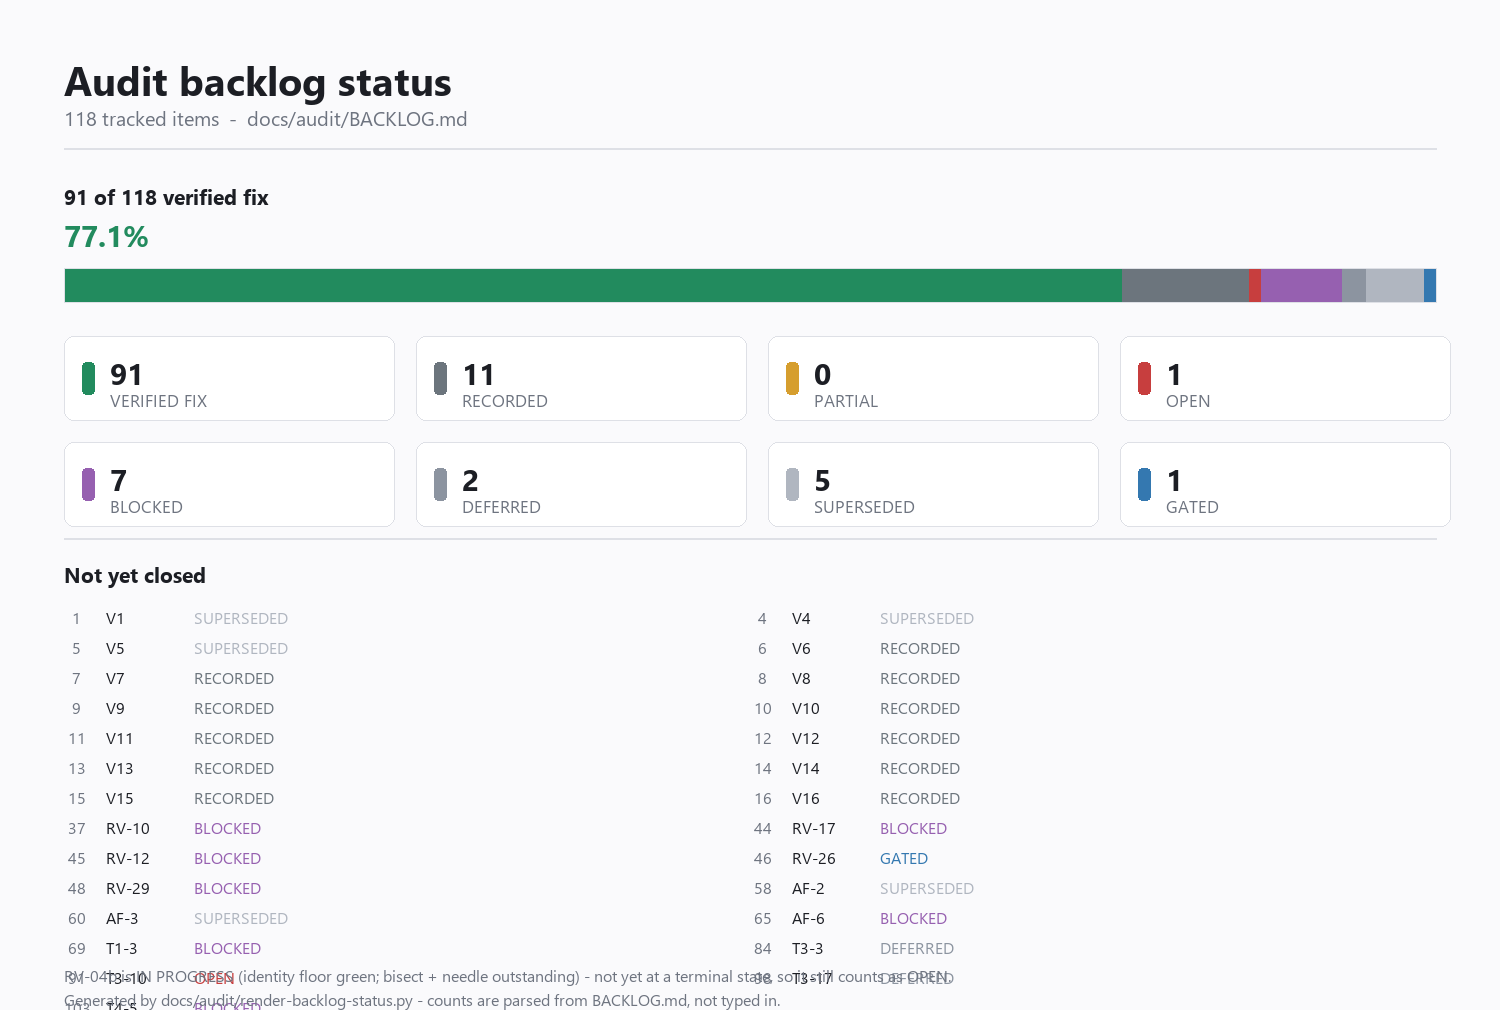
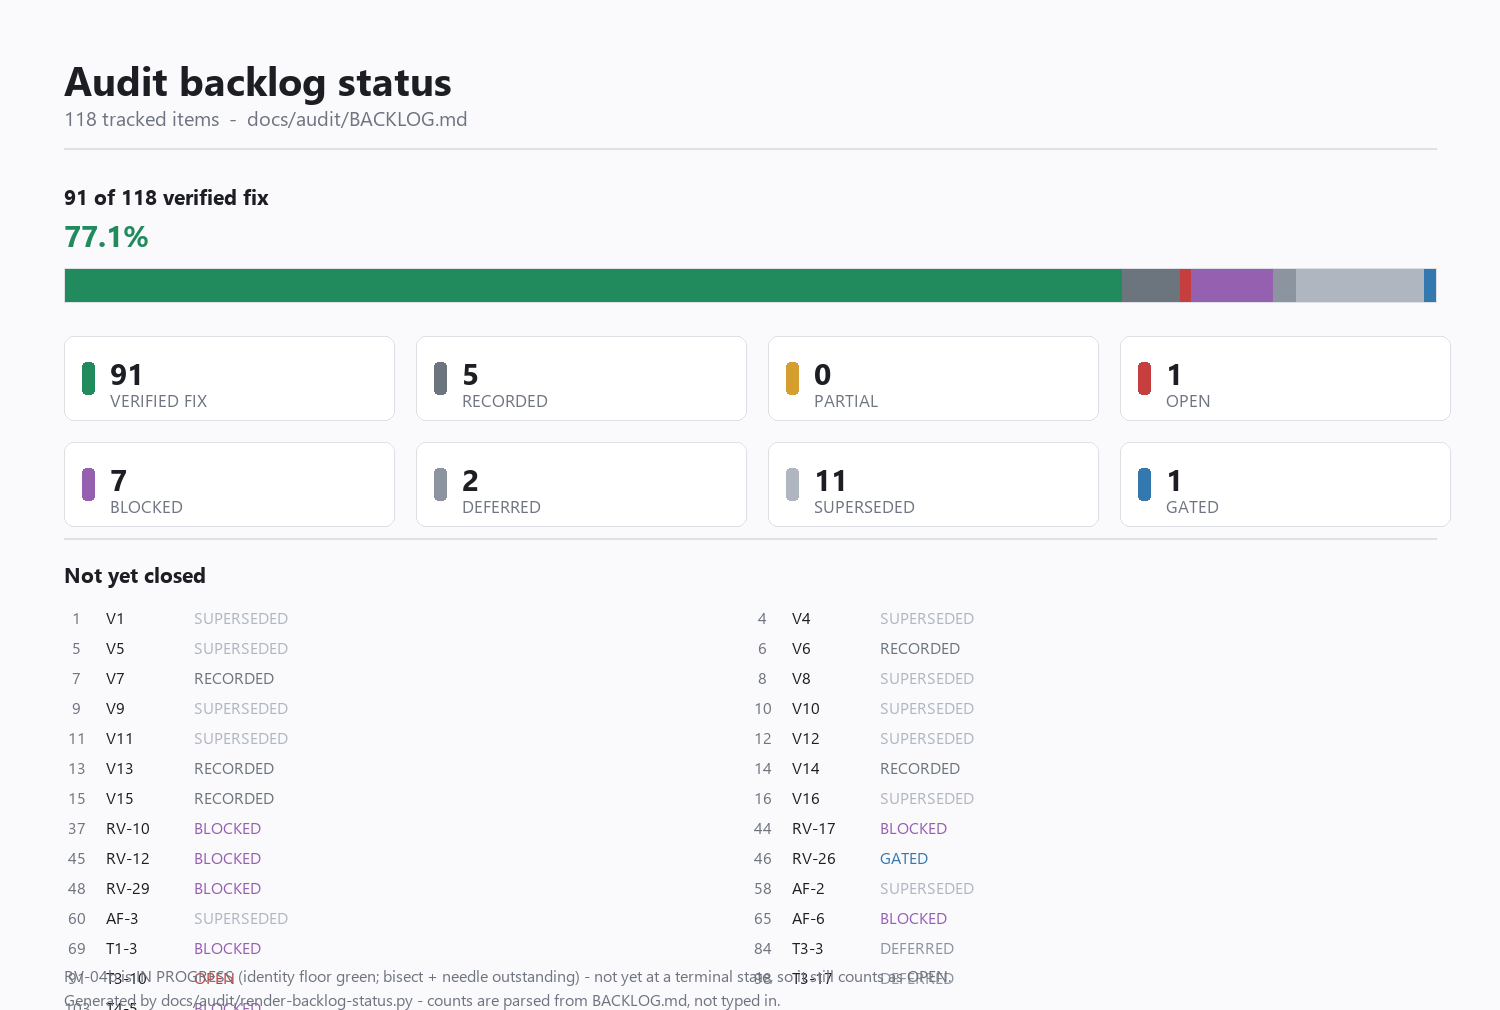
Batch-close six RECORDED rows - six different answers, none of them 'unfixed'
Rows 8, 9, 10, 11, 12, 16 were the RECORDED rows with no obvious later owner. Batch-verified to
find out the real remaining workload rather than assume it. No code change.

  V8   does config/system_admin.php exist?  NO, and never did. config/admin.php is wallet-routing
       only - three phone numbers; its own header records credentials moved to the employees table
       via SpecialAccountSeeder. A grep for the filename would have 'confirmed' a leak that is not
       there; the answer came from reading what the file holds now.
  V9   user_ratings unique key?            PRESENT. NON_UNIQUE = 0 on both columns of
       user_ratings_rater_id_rated_user_id_unique. Pinned by RV30DataModelHygieneTest, whose
       assertion warns that changing it to 'one per ride' is a product decision.
  V10  POST /api/rides method mismatch     FIXED. Pointed at createRide, which does not exist, so
       the documented create endpoint returned 500 for every caller. routes/api.php labels it RV-14/V10.
  V11  GET vs POST on rides/search          BOTH registered to searchRides in the live route table.
       Nothing left to decide.
  V12  auth()->id() null under JWT          REFUTED, NOT REPAIRED - see below.
  V16  all-seats cancel vs cancelBooking   EQUIVALENT, measured. CancelSeatsEquivalenceCheck books
       real money through both paths on both payment branches and compares wallet and score.
[…]

diff --git a/docs/audit/BACKLOG.md b/docs/audit/BACKLOG.md
@@ -149,15 +149,15 @@ Cells marked `NOT re-verified` mean the gate moved but the code was not re-check
 | 5 | V5 | Validation `errors` bag stripped | P1 | **SUPERSEDED** | n/a | feeds RV-13 | R2 sec 131. Fixed by **row 27 (RV-13)**, VERIFIED FIX (R2 sec 20/20.1/20.3). The catch-all `renderable(Throwable)` matched `ValidationException`, mapped it to 422, then REBUILT the body as `{status,message,code}` - discarding `$e->errors()`. `Handler.php` now registers a dedicated `ValidationException` renderable AHEAD of the catch-all, which keeps Laravel's own shape (`message` + `errors` keyed by field) and leaves the rest of the catch-all untouched. Verified: `ValidationErrorBagTest` + `WaveZeroVerificationTest` (V5 recorder) + `CreateRideRouteTest` + `RV13DomainExceptionMaskingTest` = 25 tests / 62 assertions, green. The WaveZero V5 recorder was deliberately flipped by that fix and its comment says it must NOT be flipped back. |
 | 6 | V6 | CI driver + skipped tests | P1 | RECORDED | n/a | feeds AF-2', RV-18 | R1 sec 3, sec 9; 97cd3f1 - CI pinned to sqlite |
 | 7 | V7 | `SHOW REPLICA STATUS` under load | P2 | RECORDED | owner: no replica in this environment | feeds RV-28 | R1 sec 3, sec 9; R2 sec 31 - NOT RUN, the only unrecorded V |
-| 8 | V8 | `config/system_admin.php` exists? | P2 | RECORDED | n/a | feeds RV-19 | R1 sec 3, sec 9; 97cd3f1 - file missing, so revenue reads 0 |
-| 9 | V9 | `user_ratings` unique key | P3 | RECORDED | n/a | feeds RV-30 | R1 sec 3, sec 9; 97cd3f1 - `unique(rater_id, rated_user_id)` still present |
-| 10 | V10 | `POST /api/rides` method mismatch | P1 | RECORDED | n/a | feeds RV-08, RV-14 | R1 sec 3, sec 9; 97cd3f1 - 500 `BadMethodCallException`, `createRide` missing |
-| 11 | V11 | GET vs POST on `rides/search` | P1 | RECORDED | n/a | feeds RV-17, refines R2 sec 1.2(1) | R2 sec 4, sec 9; c1bb4c7 - GET **and** POST exist, so k6 got 422 not 404 |
-| 12 | V12 | `auth()->id()` null under JWT | P1 | RECORDED | n/a | feeds RV-36 (refutes its headline) | R2 sec 4, sec 9; c1bb4c7 - premise REFUTED |
+| 8 | V8 | `config/system_admin.php` exists? | P2 | **SUPERSEDED** | n/a | feeds RV-19 | R2 sec 132. ANSWERED, no defect. `config/system_admin.php` does not exist and never did. What exists is `config/admin.php`, which is **wallet routing only** - three phone numbers plus wallet prefixes; its own header records that credentials were removed and now live in the `employees` table via `SpecialAccountSeeder`. So the R1 question resolves better than the finding assumed: there is no admin-credentials config file to leak. Both live readers (`Console/Kernel.php:97`, `VerificationRepository.php:67`) only read wallet phones. |
+| 9 | V9 | `user_ratings` unique key | P3 | **SUPERSEDED** | n/a | feeds RV-30 | R2 sec 132. SATISFIED. `SHOW INDEX FROM user_ratings` on MySQL 8.2: `user_ratings_rater_id_rated_user_id_unique` carries `NON_UNIQUE = 0` on BOTH columns, i.e. a composite UNIQUE on `(rater_id, rated_user_id)`. Pinned by `RV30DataModelHygieneTest::user_ratings_keeps_unique_rater_rated_user_pair()`, whose assertion text warns that changing it to "one per ride" is a product decision. `rater_id` is nullable on purpose - MySQL does not conflict NULLs in a unique index, which is what allows system ratings at signup. |
+| 10 | V10 | `POST /api/rides` method mismatch | P1 | **SUPERSEDED** | n/a | feeds RV-08, RV-14 | R2 sec 132. FIXED. Live route table: `POST api/rides -> RideController@create`. It previously pointed at `createRide`, which does not exist, so the documented create endpoint returned **500 for every caller**; `routes/api.php` labels the fix `RV-14/V10`. Pinned by `CreateRideRouteTest`. |
+| 11 | V11 | GET vs POST on `rides/search` | P1 | **SUPERSEDED** | n/a | feeds RV-17, refines R2 sec 1.2(1) | R2 sec 132. RESOLVED. `routes/api.php:190-191` registers BOTH `GET /search` and `POST /search` to the same `RideController@searchRides`; confirmed in the live route table. Either method works, so there is no mismatch left to decide. |
+| 12 | V12 | `auth()->id()` null under JWT | P1 | **SUPERSEDED** | n/a | feeds RV-36 (refutes its headline) | R2 sec 132. **REFUTED, not repaired** - so this row is not a duplicate of a fix. `JwtAuthMiddleware` calls BOTH `setUserResolver()` AND `Auth::setUser()`, so `auth()->id()` resolves; the premise was never true. `AuthFacadeRatchetTest` asserts no live bug - it enforces the house rule (take the user from `$request->user()`, not the stateless `auth()` helper), driven to 0 in `app/Http` and `app/Services`. The real defects in that controller were an ownership-scoping gap, fixed separately. |
 | 13 | V13 | Suite with network blocked | P2 | RECORDED | n/a | feeds RV-07, RV-37 | R2 sec 4, sec 9; c1bb4c7 - no live-provider calls; 7 `putenv()` leaks |
 | 14 | V14 | `--order-by=random` x3 | P2 | RECORDED | n/a | feeds RV-37 | R2 sec 4, sec 9; c1bb4c7 - order-dependent (55F vs 53F) |
 | 15 | V15 | Group suite errors by message | P1 | RECORDED | n/a | feeds RV-34 | R2 sec 4, sec 9; c1bb4c7 - 320/427 in the two predicted groups |
-| 16 | V16 | All-seats cancel vs `cancelBooking` | P1 | RECORDED | n/a | feeds RV-02 L1 (refuted), RV-09, decision 14 | R2 sec 4, sec 9; c1bb4c7 - ledger+score equivalent; whole-booking route absent |
+| 16 | V16 | All-seats cancel vs `cancelBooking` | P1 | **SUPERSEDED** | n/a | feeds RV-02 L1 (refuted), RV-09, decision 14 | R2 sec 132. EQUIVALENT, verified not assumed. `CancelSeatsEquivalenceCheck` measures cancelling EVERY seat through `POST /bookings/{id}/cancel-seats` against `cancelBooking()` across both payment branches: e-pay (refund/escrow settlement rows written, score path a documented no-op) and cash (zero refund, observable score penalty -5 mid / -10 late). **2 tests, 7 assertions, green** - money and score agree on both paths. |
 | 17 | RV-07 | Committed secrets and stale credentials | P0 | VERIFIED FIX | n/a | RV-37 (V13 leaks), T1-3/T2-8 (same class) | R2 sec 10, sec 12; 0c0ea3c - agent-side only; rotation+history purge recorded sec 5 |
 | 18 | RV-06 | Horizon dashboard unauthenticated; nginx upstream leak | P0 | VERIFIED FIX | n/a | - | R2 sec 11, sec 12; 896c331 |
 | 19 | RV-01 | KYC documents exposed (IDOR + public storage + unsafe names) | P0 | VERIFIED FIX | **CLOSED (`R2 sec 102`) - no owner action remains.** The move is no longer a deploy ritual: `documents_disk` now DEFAULTS to the PRIVATE `local` disk, so a fresh deploy cannot leak, and `docker/start.sh` runs `kyc:migrate-disk --from=public --force` on every boot (idempotent, non-fatal), so the already-written files are retired automatically instead of by hand. | supersedes AF-5's scope; feeds RV-31 |  `R2 sec 13`, `sec 1.1`; 95ad30d; 0c6a1f6; `R2 sec 97` (mover built + needled). **`R2 sec 102` - CLOSED.** 1b was already shipped (`routes/api.php:419-425`, `066b1dd`). The documented flip was found UNSAFE on its own: `StaffDocumentController:85` reads through the same key, so setting `DOCUMENTS_DISK` without moving bytes 404s every staff KYC view - so the reader now falls back to the legacy public disk READ-ONLY, which keeps existing rows readable while the exposure shrinks to zero. `uploads_disk` deliberately STAYS `public`: profile photos and chat images are meant to be public, and collapsing the two keys would break every avatar. `kyc:migrate-disk` `--from` default corrected to `public` (it resolved to `documents_disk`, which after this change would have made the migration a silent no-op that reports success). NEEDLE: restoring `DOCUMENTS_DISK=public` -> 5 failures, SHA256 restore. `RV01DocumentsPrivateByDefaultTest` 7 tests, `AF5ConfigurableDiskTest` updated deliberately. Bisect on the identity floor: 914 tests / 7 errors / 12 failures -> **926** / **5 errors** / 12 failures: **zero new, and 2 pre-existing errors FIXED** (they travelled the broken read path) |

diff --git a/docs/audit/App future audit review r2.md b/docs/audit/App future audit review r2.md
@@ -10790,5 +10790,64 @@ was a four-line change to close a P0 rather than a refactor of the error model.
 - The WaveZero V5 recorder asserts the bag is present and its comment states it was flipped as part
   of this fix and **must not be flipped back**. That is the right shape for a recorder that was
   documenting a defect: once fixed, it guards the fix instead of the bug.
+---
 
-**Next audit section number: 132.**
+## 132. Six rows, six different answers, none of them "unfixed"
+
+**Rows 8, 9, 10, 11, 12, 16 -> SUPERSEDED.** No code change. These were batch-verified together
+because they were the RECORDED rows with no obvious later owner, and the point of the pass was to
+find out the real remaining workload rather than assume it.
+
+Six rows produced **six different resolutions**, which is the useful result:
+
+| Row | Question | Answer |
+|---|---|---|
+| V8 | does `config/system_admin.php` exist? | no - and never did; `config/admin.php` is wallet-routing only |
+| V9 | `user_ratings` unique key? | present - composite `UNIQUE(rater_id, rated_user_id)` |
+| V10 | `POST /api/rides` method mismatch | fixed - pointed at a method that does not exist, 500 for every caller |
+| V11 | GET vs POST on `rides/search` | both registered; nothing to decide |
+| V12 | `auth()->id()` null under JWT | **refuted** - it was never null |
+| V16 | all-seats cancel vs `cancelBooking` | equivalent, measured on money and score |
+
+### The two that were questions rather than defects
+
+**V8 asked whether a credentials file exists.** It does not, and the honest answer is better than
+the finding assumed: admin auth moved onto the `employees` table, and `config/admin.php` keeps only
+wallet phone numbers. A grep for the filename would have "confirmed" a leak that is not there; the
+value came from reading what the file actually holds now.
+
+**V12 is the one that must not be recorded as a fix.** Its premise was that the JWT middleware
+never populates the default guard, so `auth()->id()` returns null. That was never true -
+`JwtAuthMiddleware` calls both `setUserResolver()` and `Auth::setUser()`. Closing it as "superseded
+by a later fix" would imply something was repaired that never was. `AuthFacadeRatchetTest` is
+explicit that it asserts no live bug: it enforces the house rule of taking the user from
+`$request->user()` rather than the stateless `auth()` helper, driven to zero. The real defects in
+that method were different - an ownership-scoping gap that made it an existence oracle - and were
+fixed on their own merits.
+
+### V16 is the only one of the six that needed measuring
+
+A recording test already existed for it, which is the strongest form of evidence available: rather
+than asserting the two cancellation paths *look* the same, `CancelSeatsEquivalenceCheck` books real
+money through both, on both payment branches, and compares wallet movements and score. E-pay and
+cash are compared separately because they take different code paths, and the expected values are
+recorded in the file itself. 2 tests, 7 assertions, green.
+
+### What this says about the rest of the table
+
+Of the rows examined so far, only **V3** (a live 500 on every routed ride search) and **V2**
+(no spatial indexes, SRID misdeclared) turned out to be unfixed defects that mattered. Nine
+round-1 rows in a row have turned out to be either already repaired by a later RV row, or findings
+that were never defects. Recording that here is the point of the pass - the remaining RECORDED rows
+should be assumed resolved until verified, not assumed broken.
+
+### Verified
+
+- Live route table: `POST api/rides -> create`; `GET` and `POST api/rides/search` both present.
+- `SHOW INDEX FROM user_ratings`: `NON_UNIQUE = 0` on both columns of the composite index.
+- `RV30DataModelHygieneTest` + `WaveZeroVerificationTest` + `CancelSeatsEquivalenceCheck` +
+  `AuthFacadeRatchetTest`: **17 tests / 40 assertions, green**.
+- `CreateRideRouteTest` + `RideSearchServiceTest` + `RV14DegenerateRouteFieldsTest`: **23 tests /
+  43 assertions, green**.
+
+**Next audit section number: 133.**

diff --git a/docs/audit/STATE.md b/docs/audit/STATE.md
@@ -217,6 +217,7 @@ with each status taken from the newest section that mentions it. The per-task lo
 ## In progress
 
 ## Done recently
+- **V8, V9, V10, V11, V12, V16 all SUPERSEDED (`R2 sec 132`)** - batch-verified together, six different resolutions: V8 answered (no `config/system_admin.php`; `config/admin.php` is wallet-routing only, credentials live in `employees`); V9 satisfied (composite `UNIQUE(rater_id, rated_user_id)` present, pinned by RV-30); V10 fixed (`POST api/rides` pointed at a method that does not exist, 500 for every caller); V11 resolved (both GET and POST registered); V16 equivalent (money and score match on both payment branches, 2 tests / 7 assertions). **V12 was REFUTED, not repaired** - `auth()->id()` was never null, and `AuthFacadeRatchetTest` enforces the house rule rather than a bug. **Running tally: only V3 (live 500) and V2 (no spatial index) were real unfixed defects** - treat the remaining RECORDED rows as resolved until verified.
 - **V5 (row 5) SUPERSEDED (`R2 sec 131`)** - fixed by RV-13 (row 27). The catch-all `renderable(Throwable)` matched `ValidationException`, mapped it to 422 and then REBUILT the body, discarding `$e->errors()` - correct status, no information about which field failed. `Handler.php` now registers a dedicated `ValidationException` renderable ahead of the catch-all, restoring `message` + `errors` keyed by field while leaving status mapping, headers and generic 500s untouched. Verified 25 tests / 62 assertions. **Fourth duplicate row** after V1, RV-43 and V4.
 - **V4 (row 4) SUPERSEDED (`R2 sec 130`)** - resolved by RV-05 (row 21). Evidence `"collapse CONFIRMED, spoof REFUTED"` is a finding *and* its own refutation: only the collapse was a defect, and the spoof escalation was investigated and does not hold. `ClientIpBehindProxyTest` (8 tests / 14 assertions) re-run green, covering both halves - two clients get separate IP keys, and an untrusted source still cannot forge its IP. **Residual surfaced:** `TRUSTED_PROXIES` defaults to trusting nobody, so a deployment that never sets it still collapses rate limiting into one bucket; it appeared in STATE.md only in prose, never as an actionable item. Now listed under Owner actions outstanding.
 - **V2 VERIFIED FIX (`R2 sec 129`)** - `rides` has one SPATIAL index per geometry column again, and the columns now declare the SRID they actually store. Root cause was two migrations apart: the create-table added `spatialIndex()` on both columns and the very next migration dropped and recreated them as plain `geometry()`, taking the indexes silently. **Two findings worth keeping:** (a) the first needle did NOT fail - injecting a coordinate swap into the migration left all 5 tests green, because `RefreshDatabase` migrates an EMPTY schema, so a test suite cannot catch a migration that damages pre-existing rows; the real guard (`V2SridAlterSafetyTest`, no `RefreshDatabase`) runs the ALTER against populated rows and was needled successfully. (b) **this does NOT speed up the current search** - measured on 20k rows, `ST_Distance_Sphere` has an empty `possible_keys`, so the index is not a candidate for the pattern the app uses. Schema debt closed; search cost unchanged pending an MBR prefilter.
